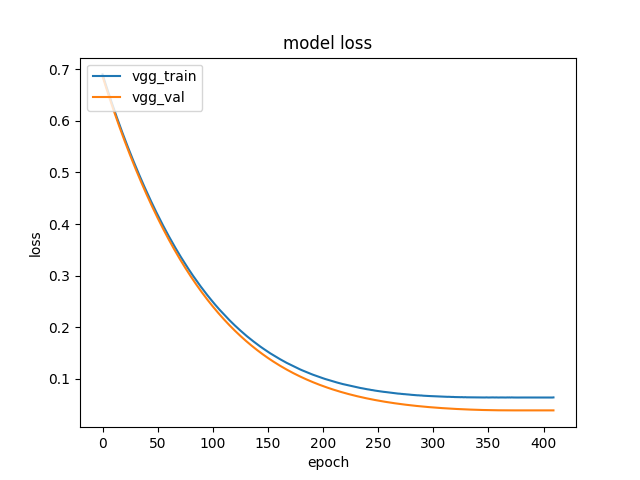
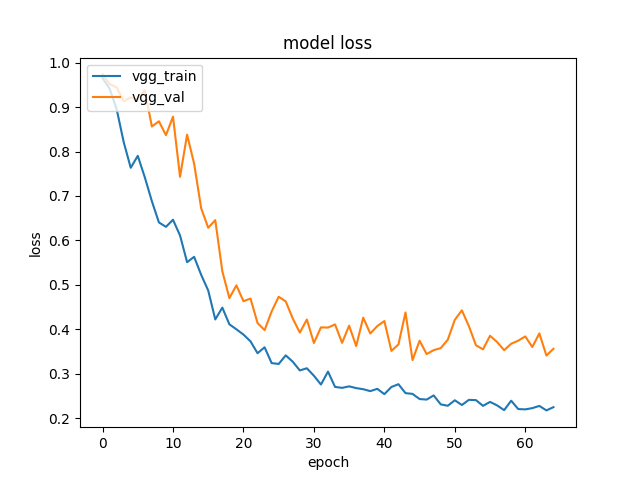
history

diff --git a/predict.py b/predict.py
@@ -97,7 +97,7 @@ for filename in os.listdir("compressed_validation_individual"):
 model = load_model('best_v5.sav')
 
 if True:
-    with open("history/trainHistoryDict", "rb") as input_file:
+    with open("history/trainHistoryDict_v7", "rb") as input_file:
         history = pickle.load(input_file)
     plt.plot(history['loss'])
     plt.plot(history['val_loss'])
